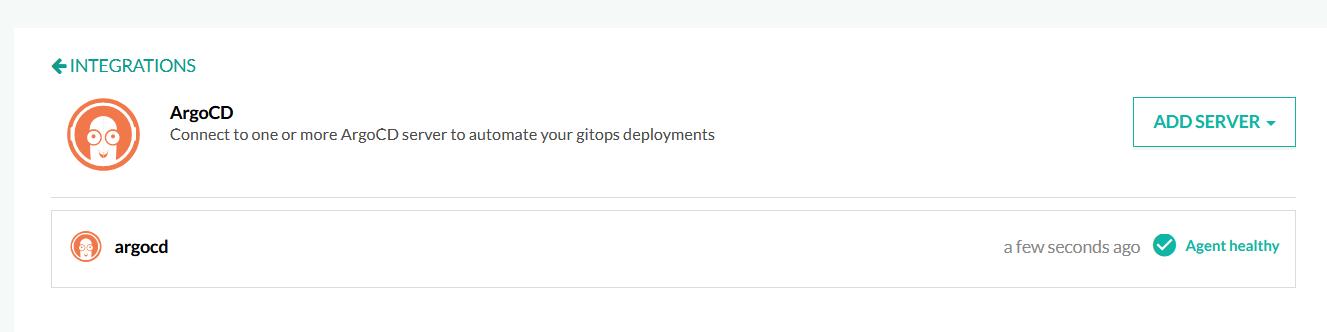
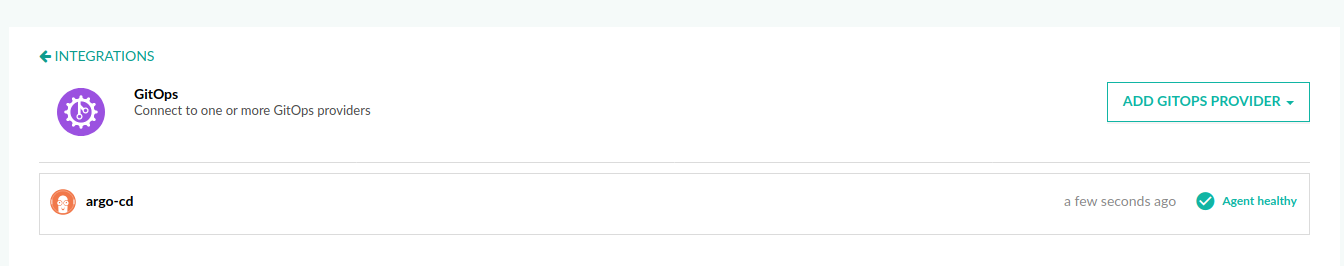
Updates in the UI for ArgoCD integration

diff --git a/_docs/integrations/argo-cd.md b/_docs/integrations/argo-cd.md
@@ -19,7 +19,7 @@ Before you can use Codefresh and ArgoCD together, you need to connect your ArgoC
 
 ## Connecting to your ArgoCD cluster
 
-To configure the integration go to your Account Configuration, by clicking on *Account Settings* on the left sidebar. On the first section called *Integrations* click the *Configure* button next to *ArgoCD*.
+To configure the integration go to your Account Configuration, by clicking on *Account Settings* on the left sidebar. On the first section called *Integrations* click the *Configure* button next to *GitOps*.
 
 {% include image.html 
   lightbox="true" 
@@ -30,7 +30,7 @@ To configure the integration go to your Account Configuration, by clicking on *A
   max-width="100%"
  %}
 
-Click the *Add Server* button from the drop-down menu.
+Click the *Add GitOps Provider* button from the drop-down menu.
 
 ## Connecting to an existing ArgoCD installation
 
@@ -41,7 +41,7 @@ You can [install the CLI](https://codefresh-io.github.io/cli/installation/) by f
 Once the CLI is authenticated, run the installation command:
 
 ```
-codefresh install argocd-agent
+codefresh install gitops
 ```
 
 >Please note that this command must be run from a workstation that has a kubeconfig context pointing to the ArgoCD cluster. You can also run it from your cloud console if you install codefresh CLI there.
@@ -51,16 +51,19 @@ Answer the questions asked by the wizard. These include:
  * The name of the integration (user-defined)
  * Your ArgoCD URL, username and password (you can also use [an auth token](https://argoproj.github.io/argo-cd/operator-manual/user-management/) instead of password)
  * The context and namespace in the cluster where ArgoCD is installed
+ * If you want to automatically import your ArgoCD applications to Codefresh
 
 ```
-kostis@cloudshell$ ./codefresh install argocd-agent
+kostis@cloudshell$ codefresh install gitops
 ? Codefresh integration name argocd
 ? Argo host, example: https://example.com https://36.87.134.111/
+? Do you want use argocd auth token instead username/password auth? No
 ? Argo username admin
 ? Argo password ******************************
 Integration updated
 ? Select Kubernetes context gke_codefresh-support_us-central1-c_kostis-argo
 ? Select Kubernetes namespace argocd
+? Select argocd sync behavior please Do not import anything from Argo to Codefresh
 argocd-agent "ClusterRole" already exists
 argocd-agent "ClusterRoleBinding" already exists
 argocd-agent "Deployment" already exists
@@ -81,7 +84,6 @@ Once the installation is complete, you should see the agent health status:
  %}
 
 
-
 This concludes the basic integration. You can repeat the procedure for different ArgoCD installations by choosing a different 
 name for the integration.
 
@@ -89,7 +91,7 @@ name for the integration.
 
 In addition to the existing [Kubernetes/Helm environments]({{site.baseurl}}/docs/deploy-to-kubernetes/environment-dashboard/), you can now create ArgoCD applications via the Codefresh UI.
 
-Visit your GitOps dashboard by clicking on *GitOps* from the left sidebar. The click the *Add App* button at the top right.
+Visit your GitOps dashboard by clicking on *GitOps* from the left sidebar. The click the *Add Application* button at the top right.
 
 If you already have an application setup in ArgoCD, you can enter its project and name and Codefresh will automatically retrieve all information from the ArgoCD instance.
 
